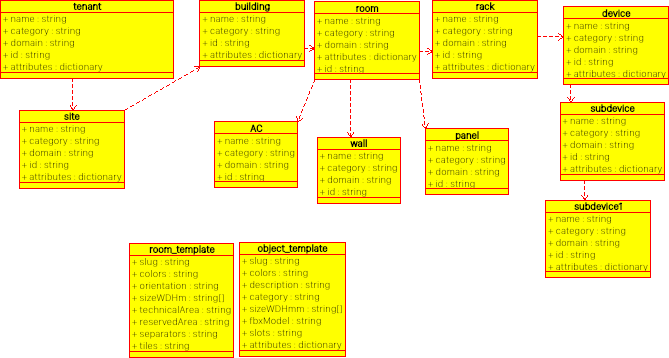
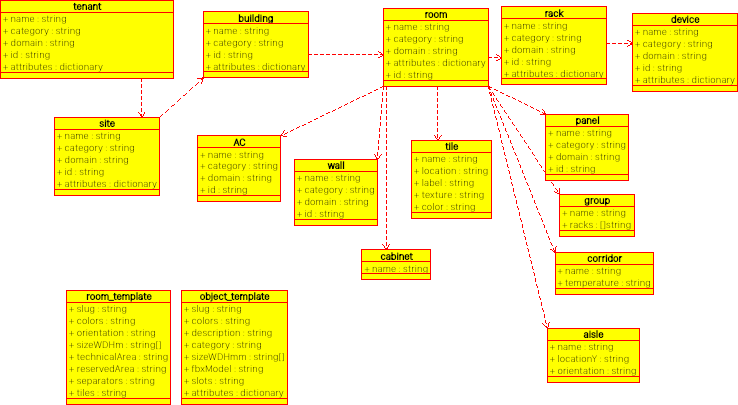
Updated OpenAPI spec and DB Diagram

diff --git a/controllers/entityController.go b/controllers/entityController.go
@@ -116,8 +116,10 @@ func parseDataForNonStdResult(ent string, eNum int, data map[string]interface{})
 // parameters:
 // - name: objs
 //   in: query
-//   description: 'Indicates the location. Only values of "tenants", "sites",
-//   "buildings", "rooms", "racks", "devices", "acs", "panels", "walls","room-templates", "obj-templates" are acceptable'
+//   description: 'Indicates the Object. Only values of "tenants", "sites",
+//   "buildings", "rooms", "racks", "devices", "acs", "panels",
+//   "walls","aisles", "tiles", "cabinets", "groups", "corridors",
+//   "room-templates", "obj-templates" are acceptable'
 //   required: true
 //   type: string
 //   default: "sites"
@@ -139,7 +141,8 @@ func parseDataForNonStdResult(ent string, eNum int, data map[string]interface{})
 //   type: string
 //   default: 999
 // - name: ParentID
-//   description: 'All objects are linked to a parent with the exception of Tenant since it has no parent'
+//   description: 'All objects are linked to a
+//   parent with the exception of Tenant since it has no parent'
 //   required: true
 //   type: int
 //   default: 999
@@ -151,7 +154,8 @@ func parseDataForNonStdResult(ent string, eNum int, data map[string]interface{})
 //   default: ["Some abandoned object in Grenoble"]
 // - name: Attributes
 //   in: query
-//   description: Any other object attributes can be added. They are required depending on obj type
+//   description: 'Any other object attributes can be added.
+//   They are required depending on the obj type.'
 //   required: true
 //   type: json
 // responses:
@@ -251,8 +255,10 @@ var CreateEntity = func(w http.ResponseWriter, r *http.Request) {
 // - name: objs
 //   in: query
 //   description: 'Indicates the location. Only values of "tenants", "sites",
-//   "buildings", "rooms", "racks", "devices", "room-templates", "obj-templates" are acceptable
-//   For rooms, walls, acs and panels can be obtained by appending /subobj type and subobj id'
+//   "buildings", "rooms", "racks", "devices", "room-templates",
+//   "obj-templates" are acceptable
+//   For rooms, walls, acs, panels, aisles, tiles, cabinets, groups,
+//   and corridors can be obtained by appending /subobj type and subobj id'
 //   required: true
 //   type: string
 //   default: "sites"
@@ -352,9 +358,11 @@ var GetEntity = func(w http.ResponseWriter, r *http.Request) {
 // parameters:
 // - name: objs
 //   in: query
-//   description: 'Indicates the location. Only values of "tenants", "sites",
-//   "buildings", "rooms", "racks", "devices", "room-templates", "obj-templates" are acceptable
-//   For rooms, walls, acs and panels can be obtained by appending /subobj type'
+//   description: 'Indicates the object. Only values of "tenants", "sites",
+//   "buildings", "rooms", "racks", "devices", "room-templates",
+//   "obj-templates" are acceptable
+//   For rooms, walls, acs, panels, aisles, tiles, cabinets, groups,
+//   and corridors can be obtained by appending /subobj type and subobj id'
 //   required: true
 //   type: string
 //   default: "sites"
@@ -433,9 +441,11 @@ var GetAllEntities = func(w http.ResponseWriter, r *http.Request) {
 // parameters:
 // - name: objs
 //   in: query
-//   description: 'Indicates the location. Only values of "tenants", "sites",
-//   "buildings", "rooms", "racks", "devices", "room-templates", "obj-templates" are acceptable
-//   For rooms, walls, acs and panels can be deleted by appending /subobj type and subobj id'
+//   description: 'Indicates the object. Only values of "tenants", "sites",
+//   "buildings", "rooms", "racks", "devices", "room-templates",
+//   "obj-templates" are acceptable
+//   For rooms, walls, acs, panels, aisles, tiles, cabinets, groups,
+//   and corridors can be obtained by appending /subobj type and subobj id'
 //   required: true
 //   type: string
 //   default: "sites"
@@ -524,9 +534,11 @@ var DeleteEntity = func(w http.ResponseWriter, r *http.Request) {
 // parameters:
 // - name: objs
 //   in: query
-//   description: 'Indicates the location. Only values of "tenants", "sites",
-//   "buildings", "rooms", "racks", "devices", "room-templates", "obj-templates" are acceptable.
-//   For rooms, walls, acs and panels can be updated by appending /subobj type and subobj id'
+//   description: 'Indicates the object. Only values of "tenants", "sites",
+//   "buildings", "rooms", "racks", "devices", "room-templates",
+//   "obj-templates" are acceptable.
+//   For rooms, walls, acs, panels, aisles, tiles, cabinets, groups,
+//   and corridors can be obtained by appending /subobj type and subobj id'
 //   required: true
 //   type: string
 //   default: "sites"
@@ -659,7 +671,8 @@ var UpdateEntity = func(w http.ResponseWriter, r *http.Request) {
 }
 
 // swagger:operation GET /api/{objs}? objects GetObject
-// Gets an Object using any attribute (with the exception of description) via query in the system
+// Gets an Object using any attribute (with the exception of description)
+// via query in the system
 // The attributes are in the form {attr}=xyz&{attr1}=abc
 // And any combination can be used given that at least 1 is provided.
 // ---
@@ -668,8 +681,10 @@ var UpdateEntity = func(w http.ResponseWriter, r *http.Request) {
 // parameters:
 // - name: objs
 //   in: query
-//   description: 'Indicates the location. Only values of "tenants", "sites",
-//   "buildings", "rooms", "racks", "devices", "room-templates", "obj-templates", "walls","acs","panels" are acceptable'
+//   description: 'Indicates the object. Only values of "tenants", "sites",
+//   "buildings", "rooms", "racks", "devices", "room-templates",
+//   "obj-templates", "walls","acs","panels", "aisles", "tiles",
+//   "cabinets", "groups", and "corridors" are acceptable'
 //   required: true
 //   type: string
 //   default: "sites"
@@ -771,7 +786,7 @@ var GetEntityByQuery = func(w http.ResponseWriter, r *http.Request) {
 // parameters:
 // - name: obj
 //   in: query
-//   description: 'Indicates the location. Only values of "tenants", "sites",
+//   description: 'Indicates the object. Only values of "tenants", "sites",
 //   "buildings", "rooms" are acceptable'
 //   required: true
 //   type: string
@@ -851,7 +866,7 @@ var GetEntitiesOfAncestor = func(w http.ResponseWriter, r *http.Request) {
 // parameters:
 // - name: objs
 //   in: query
-//   description: 'Indicates the location. Only values of "tenants", "sites",
+//   description: 'Indicates the object. Only values of "tenants", "sites",
 //   "buildings", "rooms", "racks", "devices" are acceptable'
 //   required: true
 //   type: string
@@ -1031,7 +1046,7 @@ var GetTenantHierarchy = func(w http.ResponseWriter, r *http.Request) {
 // parameters:
 // - name: objs
 //   in: query
-//   description: 'Indicates the location. Only values of "tenants", "sites",
+//   description: 'Indicates the object. Only values of "tenants", "sites",
 //   "buildings", "rooms", "racks", "devices" are acceptable'
 //   required: true
 //   type: string
